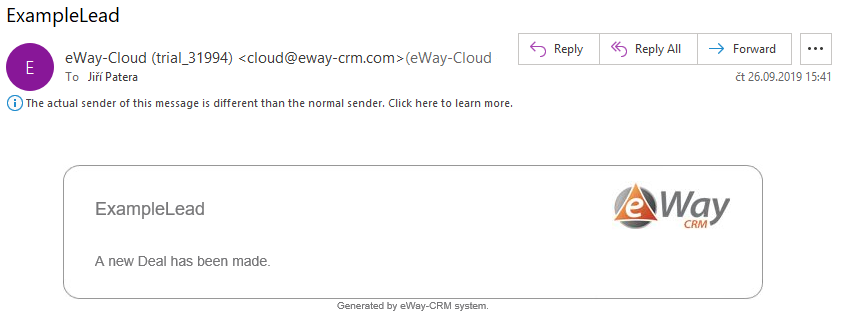
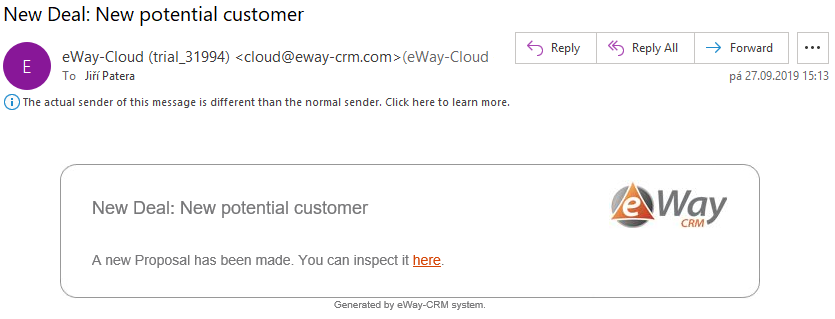
refs #36020: Global moifications

diff --git a/TriggerDefinition/AfterSave/README.md b/TriggerDefinition/AfterSave/README.md
@@ -1,5 +1,5 @@
 # After save stored procedure trigger example
-This example will show trigger, which send email, after Lead is saved. Lets say you as a overwatcher want to know when your subordinate create new Lead. For this, we will use this trigger:
+This example will show trigger, which send email, after Deal is saved. Lets say you as a overwatcher want to know when your subordinate create new Deal. For this, we will use this trigger:
 
 ```xml
 <?xml version="1.0" encoding="utf-8" ?>
@@ -9,14 +9,16 @@ This example will show trigger, which send email, after Lead is saved. Lets say 
             <Folder>Leads</Folder>
             <Action Type="StoredProcedure">
                 <StoredProcedures>
-                    <StoredProcedure Name="TriggersExample_SendLeadNotification">
+                    <StoredProcedure Name="eWaySP_NotifyAboutNewDeal">
                         <Parameters>
-                            <StoredProcedureParameter Name="@LeadFileAs" SourceName="FileAs" SqlDbType="NVarChar" />
+                            <StoredProcedureParameter Name="@LeadGUID"    SourceName="ItemGUID" SqlDbType="UniqueIdentifier" />
+                            <StoredProcedureParameter Name="@LeadFileAs"  SourceName="FileAs"   SqlDbType="NVarChar" />
                         </Parameters>
                     </StoredProcedure>
                 </StoredProcedures>
                 <Criterias>
-                  <ActionCriteria Name="OwnerGUID" Operator="Equals" Value="#SQL SELECT U.[ItemGUID] FROM [Users] U WHERE U.[UserName] = 'user1'" />
+                  <ActionCriteria Name="OwnerGUID" Operator="Equals"    Value="SQL#SELECT U.[ItemGUID] FROM [Users] U WHERE U.[UserName] = 'user1'" />
+                  <ActionCriteria Name="OwnerGUID" Operator="NotEquals" Value="$CURRENT_USER[ItemGUID]" />
                 </Criterias>
             </Action>
         </TriggerDefinition>
@@ -28,23 +30,23 @@ This example will show trigger, which send email, after Lead is saved. Lets say 
 Trigger definition "When" will define when the trigger will activate. Value "AfterSave" ensures that the activation will occur after saving an item in eWay-CRM. Also note the "Active" parameter. Its value can be either fase or true and determine that  even when the trigger is on your server, you can prevent its activation even when the circumstances of activation occures.
 
 ## Item which is being saved
-We will specify the folder as "Leads", since we want the email to send only in case of Lead saving
+We will specify the folder as "Leads", since we want the email to send only in case of Deal saving
 
 ## What will be activated
 This trigger will be supposed to activate a SQL stored procedure. We specify that in "Action" section by stating `Type="StoredProcedure"`. We also have to specify name of that procedure. In this case that is `Name="TriggersExample_SendLeadNotification"`. This procedure must be saved on your server database.
 
 ## Procedure parameters
-Our procedure have one input parameter. We want to supply it with name of Lead that is being saved. That means specifying:
+Our procedure have two input parameters. We want to supply the first one with GUID of Deal that is being saved and the second one with name of the Deal. That means specifying:
 
-Name - Name of the parameter in procedure `Name="@LeadFileAs"`
+Name - Name of the parameter in procedure 
 
-SourceName - Name of column from database, which will be supplied to the parameter `SourceName="FileAs"`
+SourceName - Name of column from database, which will be supplied to the parameter 
 
-SqlDbType - Type of this parameter `SqlDbType="NVarChar"`
+SqlDbType - Type of this parameter
 
 
 ## Conditions
-By action criteria, we can also specify more conditions for the activation. We want to be notified in case of the Lead being saved by the chosen subordinate. We can achieve that with this condition:
+By action criteria, we can also specify more conditions for the activation. We want to be notified in case of the Deal being saved by the chosen subordinate. We can achieve that with this condition:
 
 Name - Name of column on the current specified folder containing information we compare against `Name="OwnerGUID"`
 
@@ -55,12 +57,15 @@ Value - Value which we compare against the column value` Value="#SQL SELECT U.[I
 
 The condition will thus compare value of "OwnerGUID" on the saved Lead against "Value" we specified. We could specified statically the GUID of User which our subordinate uses. Alternatively, as used here, we can use SQL statement by starting the value with `#SQL` followed by the statement. Here we select GUID of User with certain username (user1).
 
+We also dont want to be catching Deals created by current user. We can do that by creating new condition with same "name" parameter, but this time operator `Operator="NotEquals"` and value `Value="$CURRENT_USER[ItemGUID]"` which is system variable that gives us GUID of current user.
+
 ## Stored procedure
 this is stored procedure that will be invoked by the trigger:
 
 ```SQL
-CREATE PROCEDURE [dbo].[TriggersExample_SendLeadNotification]
+CREATE PROCEDURE [dbo].[eWaySP_NotifyAboutNewDeal]
 (
+	@LeadGUID UNIQUEIDENTIFIER,
 	@LeadFileAs NVARCHAR(MAX)
 )
 AS
@@ -74,7 +79,8 @@ BEGIN
     DECLARE @Body NVARCHAR(MAX)
 
     SET @To = 'jiri.patera@eway-crm.com';
-    SET @Body = 'A new Deal has been made.';
+    SET @Body = 'A new Proposal has been made. You can inspect it <a href="eway://leads/' + cast(@LeadGUID as nvarchar(64)) + '">here</a>.';
+	SET @LeadFileAs = 'New Deal: ' + @LeadFileAs
 
     EXECUTE [dbo].[eWaySP_SendMail] @To, @Body, @LeadFileAs
 
@@ -82,8 +88,10 @@ END
 GO
 ```
 
-On activation the trigger will supply input parameter `@LeadFileAs` with name of the Lead being saved, as we specified it. The procedure will result in sending an email to address provided by `@To` variable.
+On activation the trigger will supply input parameter `@LeadFileAs` with name of the Lead being saved, as we specified it. The procedure will result in sending an email to address provided by `@To` variable. Also the `@LeadGUID` will be supplied and used in `<a href="eway://leads/' + cast(@LeadGUID as nvarchar(64)) + '">here</a>` to create link to the Deal.
+
+For the procedure to have correct format, please use our SQL snippet with predefined templates. You can find that [here](https://github.com/eway-crm/Snippets).
 
 ## Outcome
-This series of actions should in getting this email:
+This series of actions should in getting this email with a link to the new Deal:
 ![email](images/email.PNG)

diff --git a/README.md b/README.md
@@ -1,24 +1,56 @@
-
 # Work with triggers
 This page should give you insight for how triggers work, what you can do with them and which parameters you can use.
 
+## Download Visual Studio
+To work with XML Triggers we advise to use Microsoft Visual Studio. You can download free instance [here](https://code.visualstudio.com/?wt.mc_id=vscom_freedevoffers). Click on download and then install the application. Once you have it installed, open the Visual Studio and click on "File" and "New" in context menu and "File.." in the next context menu.
+![New file](NewFile.PNG)
+
+File type selection then appears. Here you have to choose "XML File". While this option is chosen, click on "Open" Button to open the new file.
+![Open](Open.PNG)
+
+This new file will be empty XML File with only standard `<?xml version="1.0" encoding="utf-8"?>` on the first line. Now you are ready to start writing the trigger.
+![Empty file](EmptyFile.PNG)
 
 ## XSD Definition Schema
 
 We have provided our XSD definition schema for download. If you do so, you can use it in visual studio to validate your trigger XML script. To link it, go to properties f chosen XML file and in "Schemas" choose our XSD file.
-![properties](properties.PNG)
+![Properties](Properties.PNG)
 
 Now you can start creating your trigger.
 
+## Standard trigger configuration
+Every Trigger should start with this standard configuration:
+```xml
+<TriggersConfiguration xmlns="urn:eway:document-schemas:triggers-configuration">
+    <Triggers>
+    
+    </Triggers>
+</TriggersConfiguration>
+```
+Inside, we can start defining the trigger.
+
 ##  Choose when the trigger will be activated
 Trigger definition gives the trigger information when should it activate. This can be either by action such as delete,save etc. or by specifying time of activation.
+```xml
+<TriggerDefinition Active="" When="">
+</TriggerDefinition>
+```
+"Active" can be either true or false. That indicates, if the trigger even can be activated. Perhaps you want to have it inactive for some time, but dont want to delete it, you set it to false.
 
-### Activating on Item action
+"When" than defines what is the impulse for triggerring. Here is two ways of setting that up:
+
+### Trigger
 This definition makes the trigger activate on specified item action. Bellow is link to example of "AfterSave" activation. That means the trigger will activate after an item in eWay-CRM is saved.
 Click [here](TriggerDefinition/AfterSave/README.md) for example
 
+In this case we additionally have to specify "FolderName". That defines on which eWay-CRM Item will we observe the action.
+```xml
+<Folder></Folder>
+```
+To ease understanding folder names, look [here](FolderNames.md).
+
 ### Job
-This definition makes the trigger activate on specific time.
+This definition makes the trigger activate on specific time. That means either just once, or periodically in times of your own choosing.
 Click [here](TriggerDefinition/ScheduledAtTime/README.md) for example
 
 ## What is it that you want to trigger?
@@ -26,17 +58,22 @@ Action type is what the trigger is "triggering". That could be either executable
 
 ### StoredProcedure
 "StoredProcedure" trigger will activate stored procedure of your specification. This procedure must be stored on your local Database.
+```xml
+<Action Type="StoredProcedure">
+</Action>
+```
 Click [here](ActionType/StoredProcedure/README.md) for example
+
+For the procedure to have correct format, please use our SQL snippet with predefined templates. You can find that [here](https://github.com/eway-crm/Snippets).
+
+Writting triggers requires T-SQL knowledge. Checkout our [Database Schema](https://dev.eway-crm.com/docs/database-schema.html) to find a lot of system procedures and functions that can be used right away.
 
 ### Executable
 "Executable" trigger will activate .exe file of your specification.
 Click [here](ActionType/Executable/README.md) for example
+```xml
+<Action Type="Executable">
+</Action>
+```
 
-## Check out trigger template
-If you open our provided XSD file in visual studio, you can generate template trigger with no filled values. To do tat, right click on "TriggersConfiguration" and find "Generate Sample XML".
-
- ![XSD](XSD.PNG)
-
-## Folder names
-To ease understanding folder names, look [here](FolderNames.md).
 

diff --git a/TriggerDefinition/ScheduledAtTime/README.md b/TriggerDefinition/ScheduledAtTime/README.md
@@ -1,5 +1,3 @@
-
-
 # Job trigger example
 "ScheduledAtTime" trigger will activate at a specific time. Lets say you want to run Program.exe each hour, every day.
 
@@ -31,7 +29,7 @@ The trigger will activate Program.exe, so we have to supply programs path to the
 By defining action criterias we can create our own schedule for trigger activation
 
 ### Time
- This criteria defines starting time for the trigger. The time format is h:m:s. The trigger will activate at the set time, relative to 00:00. Here we have this value set to 00:40:00 (40 minutes after midnight). That means, if you set the trigger to "active" at time 00:39, it will activate in the next minute. However if you set it to "active" at 00:41, it will activate after 23 hours and 59 minutes. Take notice, that the time which the trigger checks is time on your server.
+ This criteria defines starting time for the trigger. The time format is h : m : s. The trigger will activate at the set time, relative to 00:00. Here we have this value set to 00:40:00 (40 minutes after midnight). That means, if you set the trigger to "active" at time 00:39, it will activate in the next minute. However if you set it to "active" at 00:41, it will activate after 23 hours and 59 minutes. Take notice, that the time which the trigger checks is time on your server.
 
 ### Repeat
 Repeat determines your trigger will activate repeatedly. Here we have `Value="d"`, which means it will repeat every day. In this case each day at 0:40. This criteria can have following values:
